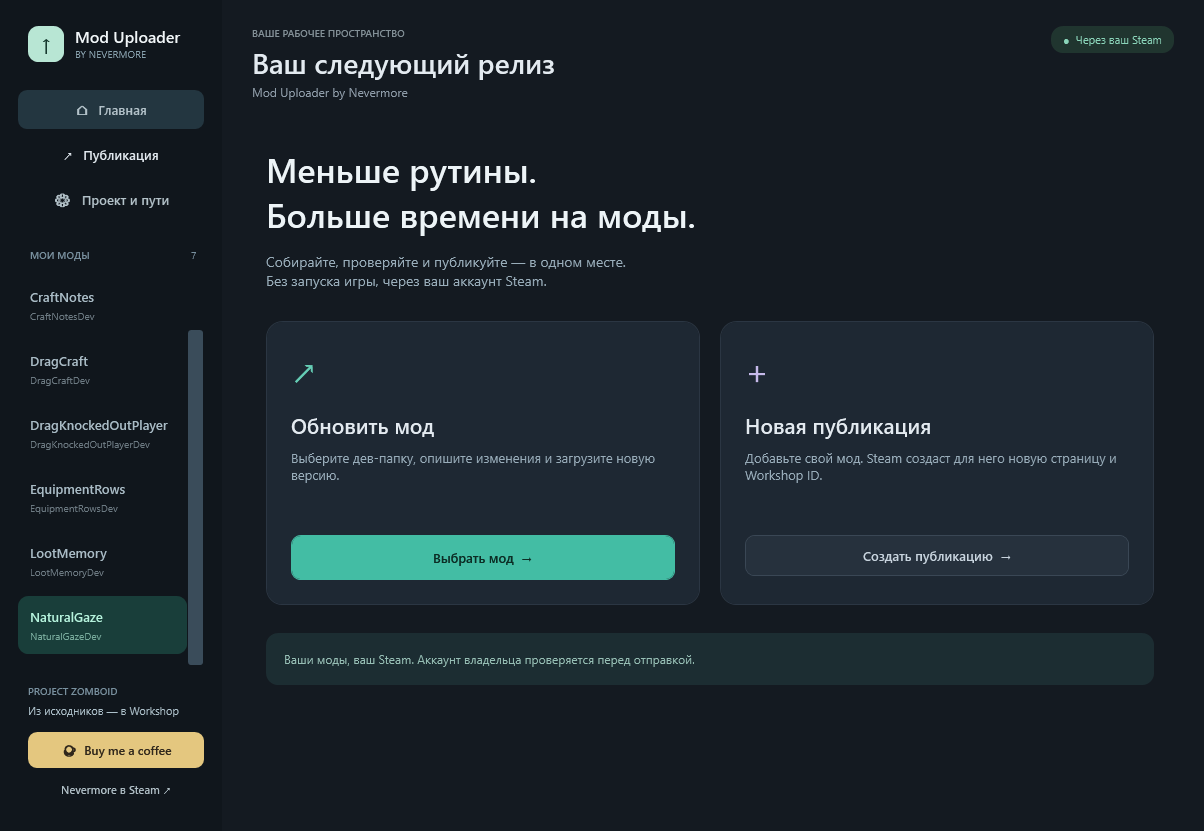
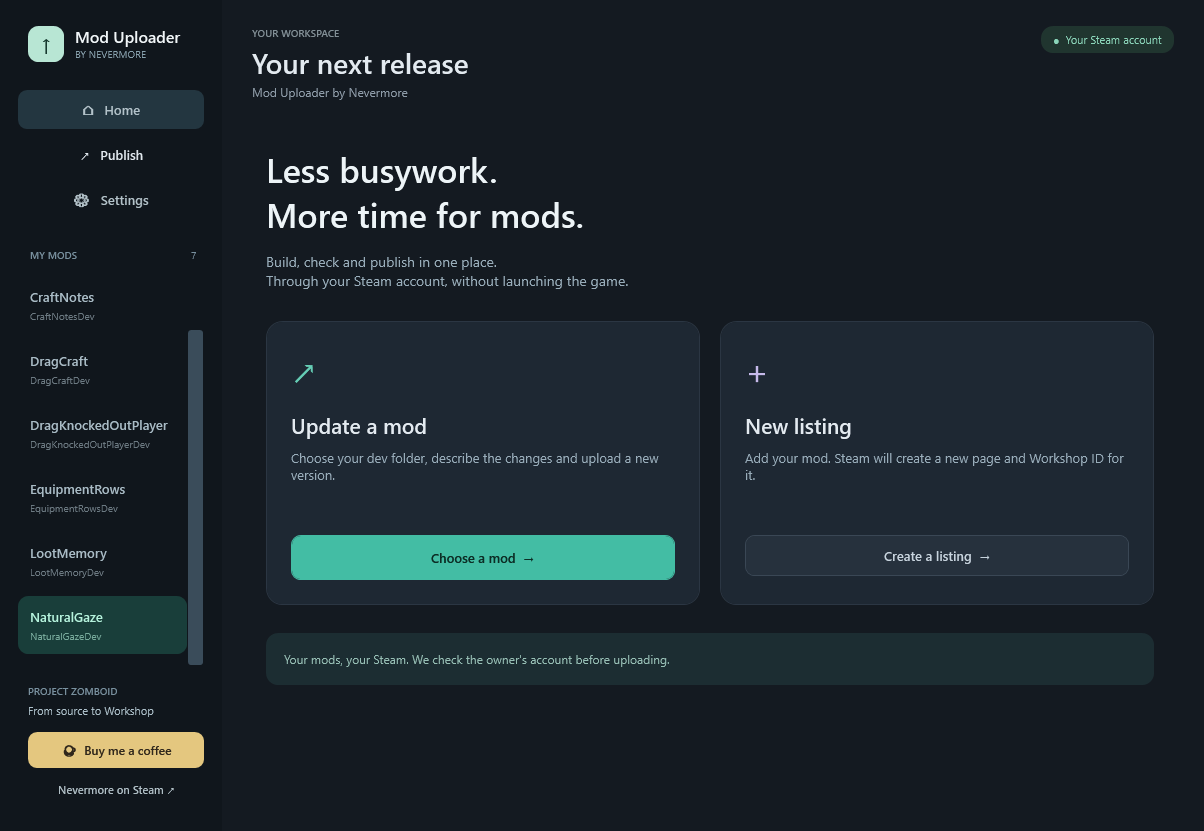
Prepare 1.0.1 release with English and Russian UI

diff --git a/README.md b/README.md
@@ -13,6 +13,7 @@ This is a **closed-source release repository**. Application source code and deve
 ## Features
 
 - Dark interface with a choice to update an existing mod or create a new Workshop listing.
+- English by default, with an instant English / Русский switch in Settings.
 - Dev-project selection, configurable preparation scripts and file-integrity checks.
 - Steam BBCode changelog editor.
 - Independent description and preview toggles for existing listings. When off, those values are preserved in Steam.
@@ -24,16 +25,16 @@ This is a **closed-source release repository**. Application source code and deve
 
 - Windows x64 with .NET Framework 4.8 or newer.
 - An installed Steam copy of Project Zomboid and the Steam client running under your own account. The game can stay closed.
-- Your mod's dev files and Workshop folder. Set paths in **Проект и пути**.
+- Your mod's dev files and Workshop folder. Set paths in **Settings**.
 - PowerShell 7 when using a preparation script. Java, Python or other build tools are only needed if your chosen project's script requires them.
 
-The current UI is in Russian. The tool is for Project Zomboid, not a universal uploader for unrelated Steam games.
+Choose **Settings → App language → English / Русский** to change the interface language. The choice is saved automatically, applies without restarting and keeps your drafts and publication options intact. The tool is for Project Zomboid, not a universal uploader for unrelated Steam games.
 
 ## Use
 
-Choose **Обновить мод** to select an existing project and enter a changelog. **Подготовить файлы** only prepares the local Workshop folder; **Опубликовать** also sends it to Steam.
+Choose **Update a mod** to select an existing project and enter a changelog. **Prepare files** only prepares the local Workshop folder; **Publish** also sends it to Steam.
 
-Choose **Новая публикация** to prepare a local draft from your dev folder. Fill in the listing details and use **Создать и опубликовать** to allocate a Workshop ID and upload. If Steam requests the Workshop legal agreement, accept it on the item page. If creation times out with an uncertain result, inspect your Workshop items before retrying; the tool blocks blind duplicate creation.
+Choose **New listing** to prepare a local draft from your dev folder. Fill in the listing details and use **Create and publish** to allocate a Workshop ID and upload. If Steam requests the Workshop legal agreement, accept it on the item page. If creation times out with an uncertain result, inspect your Workshop items before retrying; the tool blocks blind duplicate creation.
 
 The description/preview switches apply to updates of existing items. A new listing requires these fields. Avoid editing payload files while publishing.
 

diff --git a/release-notes/v1.0.1.md b/release-notes/v1.0.1.md
@@ -1,0 +1,20 @@
+# Mod Uploader by Nevermore 1.0.1
+
+## What's new
+
+- English is now the default interface language, including when upgrading from 1.0.0.
+- Choose **Settings → App language → English / Русский** to switch instantly. Your choice is saved automatically.
+- Navigation, forms, tooltips, progress and application error messages are available in both languages.
+- Your update notes, descriptions, paths, visibility and description/preview switches stay unchanged when you switch languages.
+
+## Download
+
+Download and run `ModUploader.exe`. No installer or ZIP is needed. `SHA256SUMS.txt` contains its SHA-256 checksum.
+
+Requires Windows x64, .NET Framework 4.8+, installed Project Zomboid and a running Steam client. The game can stay closed.
+
+The EXE is self-signed by Nevermore and timestamped. Windows may still show an untrusted-publisher warning.
+
+## Validation
+
+Language defaults, migration, persistence and fallback checks passed. UI tests cover live switching, preserved user input and publication flags, and new-listing safeguards in both languages. English and Russian layouts were visually checked. Offline payload checks and signature verification passed. No real Steam item was created or updated during testing. External script output and Windows diagnostics may use their own language.

diff --git a/CHANGELOG.md b/CHANGELOG.md
@@ -1,5 +1,14 @@
 # Changelog
 
+## 1.0.1
+
+- English is now the default interface language, including when upgrading from 1.0.0.
+- Added an English / Русский selector in Settings with instant switching and automatic saving.
+- Translated navigation, forms, tooltips, progress and application error messages.
+- Switching languages preserves drafts, paths and publication options.
+
+See [release notes](release-notes/v1.0.1.md).
+
 ## 1.0.0
 
 Initial standalone release of Mod Uploader by Nevermore.
